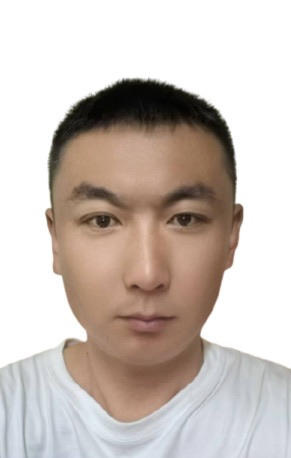
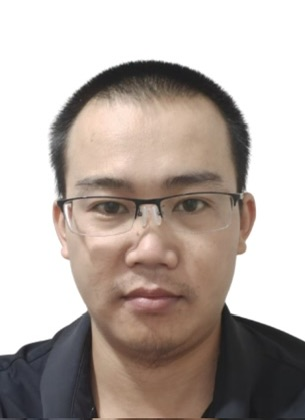
1111

diff --git a/health.html b/health.html
@@ -171,11 +171,11 @@
                                 </tr>
                                   <!-- 海07492100691  44970117  前部分固定形式，后面可变-->
                                 <tr>
-                                  <td style="font-size: 10px;font-family: 宋体;font-weight: bold;word-break: break-all;">编号:海0749210069106183895
+                                  <td style="font-size: 10px;font-family: 宋体;font-weight: bold;word-break: break-all;">编号:海0749210069111090911
                                   </td>
                                 </tr>
                                 <tr>
-                                  <td style="font-size: 10px;font-family: 宋体;font-weight: bold;">日期:2026-06-29</td>
+                                  <td style="font-size: 10px;font-family: 宋体;font-weight: bold;">日期:2026-08-11</td>
                                 </tr>
                               </tbody>
                             </table>
@@ -191,7 +191,7 @@
                                       <tbody>
                                         <tr height="27">
                                           <td><span
-                                              style="font-family:宋体; font-size:26px;color: #000000;FONT-WEIGHT: bold;">李帅<span
+                                              style="font-family:宋体; font-size:26px;color: #000000;FONT-WEIGHT: bold;">向新成<span
                                                 style="font-family:宋体; font-size:16px;color: #000000;FONT-WEIGHT: bold;">（男）</span>
                                             </span></td>
                                         </tr>
@@ -201,7 +201,7 @@
                                         </tr>
                                         <tr>
                                           <td><span
-                                              style="font-family:宋体; font-size:11px;color: #000000;FONT-WEIGHT: bold;">身份证号: 3704811989********</span>
+                                              style="font-family:宋体; font-size:11px;color: #000000;FONT-WEIGHT: bold;">身份证号: 5325241997********</span>
                                           </td>
                                         </tr>
                                       </tbody>
@@ -224,41 +224,41 @@
                                                 <tr align="center">
                                                   <td align="left">细菌性痢疾</td>
                                                   <td>合格</td>
-                                                  <td>2026年06月28日</td>
+                                                  <td>2026年08月10日</td>
                                                 </tr>
 
                                                 <tr align="center">
                                                   <td align="left">伤寒和副伤寒</td>
                                                   <td>合格</td>
-                                                  <td>2026年06月28日</td>
+                                                  <td>2026年08月10日</td>
                                                 </tr>
 
                                                 <tr align="center">
                                                   <td align="left">病毒性肝炎（甲戊肝）</td>
                                                   <td>合格</td>
-                                                  <td>2026年06月28日</td>
+                                                  <td>2026年08月10日</td>
                                                 </tr>
                                                 <tr align="center">
                                                   <td align="left">活动性肺结核</td>
                                                   <td>合格</td>
-                                                  <td>2026年06月28日</td>
+                                                  <td>2026年08月10日</td>
                                                 </tr>
 
                                                 <tr align="center">
                                                   <td align="left">化脓性或渗出性皮肤病</td>
                                                   <td>合格</td>
-                                                  <td>2026年06月28日</td>
+                                                  <td>2026年08月10日</td>
                                                 </tr>
                                                 <tr align="center">
                                                   <td align="left">霍乱</td>
                                                   <td>合格</td>
-                                                  <td>2026年06月28日</td>
+                                                  <td>2026年08月10日</td>
                                                 </tr>
 
                                                 <tr align="center">
                                                   <td align="left">阿米巴性疾病</td>
                                                   <td>合格</td>
-                                                  <td>2026年06月28日</td>
+                                                  <td>2026年08月10日</td>
                                                 </tr>
                                               </tbody>
                                             </table>
@@ -304,7 +304,7 @@
                           <td>
                             <font style="FONT-SIZE: 12px;">姓　名：</font>
                           </td>
-                          <td><span style="font-family:黑体; font-size:14px;color: #000000;FONT-WEIGHT: bold;"> 李帅 </span>
+                          <td><span style="font-family:黑体; font-size:14px;color: #000000;FONT-WEIGHT: bold;"> 向新成 </span>
                           </td>
                         </tr>
                         <tr>
@@ -320,7 +320,7 @@
                           </td>
                           <td width="110"><span
                               style="font-family:黑体; font-size:14px;color: #000000;FONT-WEIGHT: bold;">
-                              2026年06月28日</span></td>
+                              2026年08月10日</span></td>
                         </tr>
                         <tr>
                           <td>
@@ -398,7 +398,7 @@
               姓名
             </td>
             <td colspan="3">
-              &nbsp;李帅 &nbsp;
+              &nbsp;向新成 &nbsp;
             </td>
             <td colspan="2">
               性别
@@ -412,7 +412,7 @@
               身份证号码
             </td>
             <td colspan="8" style="border-right: 1px solid black;">
-              &nbsp; 3704811989********&nbsp;
+              &nbsp; 5325241997********&nbsp;
             </td>
           </tr>
           <tr>
@@ -669,7 +669,7 @@
             <td>（盖章有效）</td>
             <td width="280px"></td>
             <td>日期：</td>
-            <td>&nbsp;2026年06月28日</td>
+            <td>&nbsp;2026年08月10日</td>
           </tr>
           <tr height="50px">
             <td colspan="4">&nbsp;</td>
@@ -769,7 +769,7 @@
               <td>（盖章有效）</td>
               <td width="280px"></td>
               <td>日期：</td>
-              <td>&nbsp;2026年06月28日</td>
+              <td>&nbsp;2026年08月10日</td>
             </tr>
             <tr height="50px">
               <td colspan="4">&nbsp;</td>
@@ -847,7 +847,7 @@
               <td>（盖章有效）</td>
               <td width="280px"></td>
               <td>日期：</td>
-              <td>&nbsp;2026年06月28日</td>
+              <td>&nbsp;2026年08月10日</td>
             </tr>
             <tr height="50px">
               <td colspan="4">&nbsp;</td>
